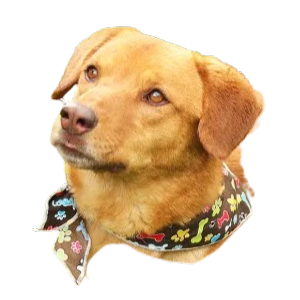
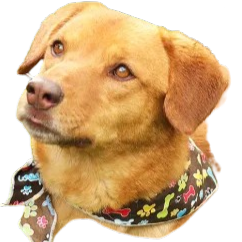
fix: carrusel collar responsiv

diff --git a/index.html b/index.html
@@ -18,7 +18,12 @@
             <div class="container">
                 <a class="navbar-brand brand" href="./index.html">
                     <img src="./img/logo_huellitas.png" alt="logo huellitas">
-                    <span><strong>Huellitas</strong>Primavera</span>
+                    <h1>
+                        <span>
+                            <strong>Huellitas</strong>Primavera
+                        </span>
+                    </h1>
+
                 </a>
 
                 <button class="navbar-toggler" type="button" data-bs-toggle="collapse"
@@ -113,56 +118,56 @@
             <ul class="splide__list">
                 <li class="splide__slide">
                     <button class="medalla">
-                        <img src="./img/perritoadopcion1-removebg.png" width="100" height="100" alt="Perrito">
+                        <img src="./img/perritoadopcion1-removebg.png" alt="Perrito">
                         <h3>Nombre del perrito</h3>
                         <p>Edad del perrito</p>
                     </button>
                 </li>
                 <li class="splide__slide">
                     <button class="medalla">
-                        <img src="./img/perritoadopcion2-removebg.png" width="100" height="100" alt="Perrito 2">
+                        <img src="./img/perritoadopcion2-removebg.png" alt="Perrito 2">
                         <h3>Nombre del perrito</h3>
                         <p>Edad del perrito</p>
                     </button>
                 </li>
                 <li class="splide__slide">
                     <button class="medalla">
-                        <img src="./img/perritoadopcion3-removebg.png" width="100" height="100" alt="Perrito 3">
+                        <img src="./img/perritoadopcion3-removebg.png" alt="Perrito 3">
                         <h3>Nombre del perrito</h3>
                         <p>Edad del perrito</p>
                     </button>
                 </li>
                 <li class="splide__slide">
                     <button class="medalla">
-                        <img src="./img/perritoadopcion4-removebg.png" width="100" height="100" alt="Perrito">
+                        <img src="./img/perritoadopcion4-removebg.png" alt="Perrito">
                         <h3>Nombre del perrito</h3>
                         <p>Edad del perrito</p>
                     </button>
                 </li>
                 <li class="splide__slide">
                     <button class="medalla">
-                        <img src="./img/perritoadopcion5-removebg.png" width="100" height="100" alt="Perrito">
+                        <img src="./img/perritoadopcion5-removebg.png" alt="Perrito">
                         <h3>Nombre del perrito</h3>
                         <p>Edad del perrito</p>
                     </button>
                 </li>
                 <li class="splide__slide">
                     <button class="medalla">
-                        <img src="./img/perritoadopcion6-removebg.png" width="100" height="100" alt="Perrito">
+                        <img src="./img/perritoadopcion6-removebg.png" alt="Perrito">
                         <h3>Nombre del perrito</h3>
                         <p>Edad del perrito</p>
                     </button>
                 </li>
                 <li class="splide__slide">
                     <button class="medalla">
-                        <img src="./img/perritoadopcion7-removebg.png" width="100" height="100" alt="Perrito">
+                        <img src="./img/perritoadopcion7-removebg.png" alt="Perrito">
                         <h3>Nombre del perrito</h3>
                         <p>Edad del perrito</p>
                     </button>
                 </li>
-                 <li class="splide__slide">
+                <li class="splide__slide">
                     <button class="medalla">
-                        <img src="./img/perritoadopcion8-removebg.png" width="100" height="100" alt="Perrito">
+                        <img src="./img/perritoadopcion8-removebg.png" alt="Perrito">
                         <h3>Nombre del perrito</h3>
                         <p>Edad del perrito</p>
                     </button>
@@ -208,18 +213,17 @@
     <script src="./libs/splide/splide.min.js"></script> <!--esto carga la librería splide-->
     <!--esto configura el carrusel que se muestra-->
     <script>
-        new Splide('.splide', {
-            type: 'loop',
-            perPage: 1,
-            autoplay: true,
-            interval: 4000,
-            pauseOnHover: true,
-        }).mount();
-
         var splide = new Splide('.splide', {
             type: 'loop',
-            perPage: 3,
+            perPage: 4,
+            perMove: 1,
+            gap: '1.5rem',
             focus: 'center',
+            breakpoints: {
+                1024: { perPage: 3 },
+                768: { perPage: 2 },
+                480: { perPage: 1 }
+            }
         });
 
         splide.mount();

diff --git a/css/index.css b/css/index.css
@@ -7,6 +7,8 @@ body {
     font-size: 14px;
 }
 
+
+/*estilos del header*/
 .brand img {
     display:block;
     width: 50px;
@@ -38,7 +40,33 @@ body {
     color: var(--coral-profundo);
 }
 
+.navbar-toggler{
+    border: none;
+}
+
+.navbar-toggler:hover{
+    border: none;
+    box-shadow: 0 0.35rem 0.9rem var(--primario);
+}
+
+.btn.btn-sm{
+    transition: 1s;
+}
+
+.btn.btn-sm:hover{
+    background-color: var(--secundario);
+    border-radius: 99px;
+    color: var(--texto-titulos);
+    transition: 1.5s;
+}
+
 /*estilos del carrusel principal*/
+
+#carousel {
+    border-radius: 0.7rem;
+    overflow: hidden; /*si no se pone ese overflow hidden, no se aplica el border radius puesto arriba.*/
+}
+
 #carousel .carousel-item::after{ /*--Este estilo otorga un efecto visual al final de cada carrusel item*/
     content:"";
     position: absolute; /*Si tuviera posición relativa no se vería el degradado */
@@ -46,19 +74,84 @@ body {
     inset:0; /*este atributo hace el elemento ocupe todo el área que lo contiene*/
     background: linear-gradient(
         90deg,
-        color-mix(in srgb, var(--color-secundario)80%, transparent) 0%,
-        color-mix(in srgb, var(--color-secundario)50%, transparent) 43%,
+        color-mix(in srgb, var(--neutral)80%, transparent) 0%,
+        color-mix(in srgb, var(--neutral)50%, transparent) 43%,
         transparent 100%
     );
+}
+
+#carousel .hero-contenido {
+    position: absolute;
+    z-index:2;
+    top:50%;
+    left: 7%;
+    width: min(80%, 32rem);
+    transform: translateY(-40%);
+    color: var(--secundario);
+}
+
+#carousel .hero-contenido .minititulo {
+    color: var(--para-fondo-oscuro);
+    text-transform: uppercase;
+    width: min(30%, 50rem);
+    font-weight: 600;
+    background-color: color-mix(in srgb, var(--neutral) 60%, transparent); /*se usa color-mix en vez de alpha porque a veces la vista previa de la página no lo muestra*/
+    padding: 0.2rem 0.5rem 0.2rem;
+    border-radius: 99px;
+    letter-spacing: 0.1rem;
+}
+
+#carousel .hero-contenido h2 {
+    color: var(--fondo-contenedores);
+    font-weight: 600;
+    position: relative;
+    top: 5px;
+    width: min(80%, 32rem);
+    transform: translateX(2%);
+}
+
+#carousel .hero-contenido p {
+    color: var(--fondo-general);
+    font-size: 0.7rem;
+    font-weight: 200;
+    transform: translateX(2%);
+}
+
+#carousel .hero-contenido .btn.primary-button {
+    color: var(--fondo-contenedores);
+    font-size: 0.96rem;
+    font-weight: 550;
+    transition: 1s;
+}
+
+#carousel .hero-contenido .btn.primary-button:hover{
+    color: var(--texto-titulos);
+    background-color: var(--fondo-contenedores);
+    border-radius: 70px;
+    transition: 1s;
+    font-size: 0.96rem;
+    font-weight: 550;
+}
+
+.carousel-control-prev, .carousel-control-next {
+    width: 5%;
 }
 
 /*estilos del carrusel tipo collar de perritos*/
 .splide {
     margin-top: 5rem;
 }
-.splide__track ul {
-    gap:2rem;
+
+.splide__slide {
+    display:flex;
+    justify-content: center;
+    align-items: center;
 }
+
+/*.splide__track ul {
+    gap:2rem;
+}*/
+
 .splide__slide h3 {
     color: var(--coral-profundo);
     font-size: medium;
@@ -66,9 +159,29 @@ body {
 }
 .medalla {
     background: linear-gradient(90deg, var(--secundario)20%, var(--primario)40%, var(--secundario)80%);
+    aspect-ratio: 1;
     border: none;
-    border-radius: 100%;
-    width: 15rem;
-    height: 15rem;
-    padding: 10px;
+    border-radius: 50%;
+    width: min(15rem, 70vw); /*esto es para*/
+    height: auto;
+    margin: 5%;
+    padding: 1rem ;
+    box-shadow: 0 0.1rem 0.6rem 0.5rem var(--secundario);
+
+    box-sizing: border-box;
+    display:flex;
+    flex-direction: column;
+    justify-content: center;
+    align-items: center;
 }
+
+.medalla img {
+    width: 55%;
+    max-width: 6.2rem;
+    height: auto;
+    object-fit: contain;
+}
+
+
+
+/*estilos del footer*/
